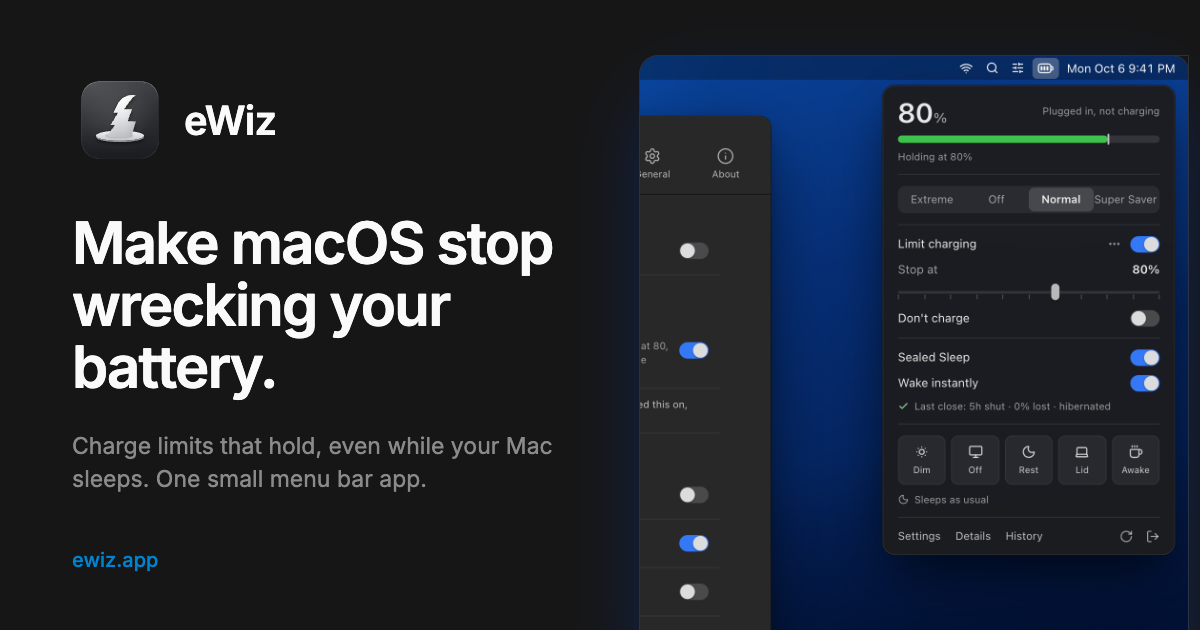
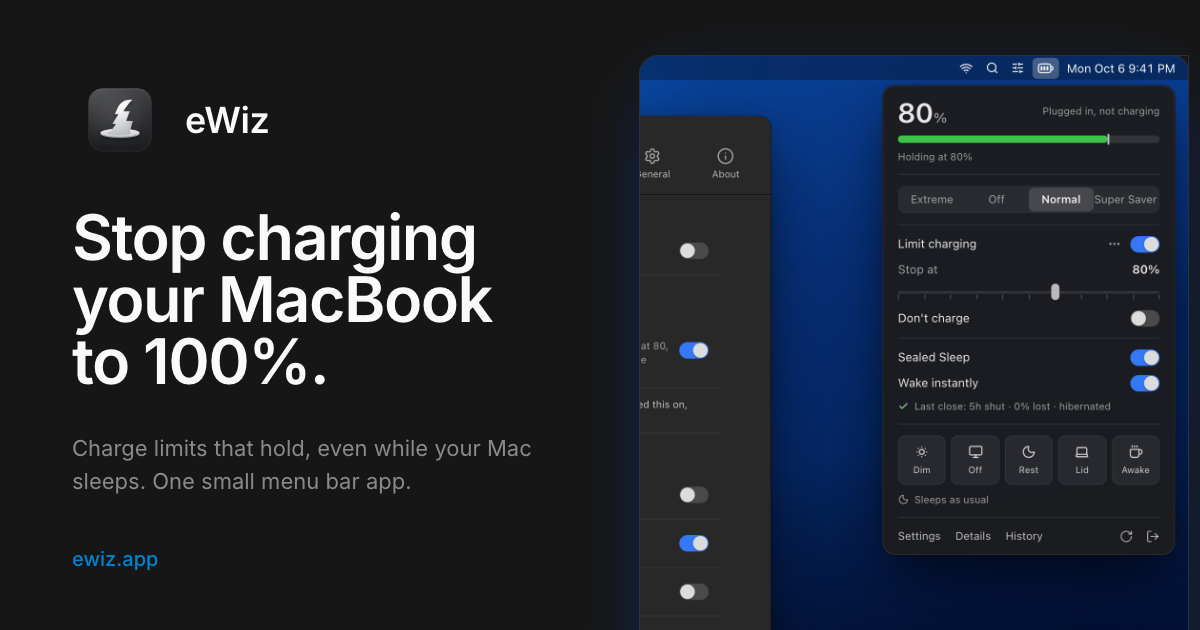
feat: a plainer hero headline
"Make macOS stop wrecking your battery" becomes "Stop charging your
MacBook to 100%", on the page and in the Open Graph share image.

diff --git a/app/src/components/landing/landing-page.tsx b/app/src/components/landing/landing-page.tsx
@@ -75,7 +75,7 @@ function Hero({
           className="animate-enter mx-auto mt-8 max-w-[40rem] text-[2.1rem] leading-[1.1] font-semibold tracking-tight text-balance sm:text-[3rem]"
           style={{ "--enter-delay": "100ms" } as React.CSSProperties}
         >
-          Make macOS stop wrecking your battery.
+          Stop charging your MacBook to 100%.
         </h1>
         <p
           className="animate-enter mx-auto mt-5 max-w-[36rem] text-lg leading-relaxed text-pretty text-muted-foreground"

diff --git a/app/src/lib/seo.ts b/app/src/lib/seo.ts
@@ -16,7 +16,7 @@ export const SITE = {
   twitter: "@broisnischal",
   /** 1200x630 share image lives in /public. */
   ogImage: "/og.png",
-  ogImageAlt: "eWiz: make macOS stop wrecking your battery",
+  ogImageAlt: "eWiz: stop charging your MacBook to 100%",
 } as const;
 
 /** Trim a trailing slash so we never emit a double slash when joining paths. */
